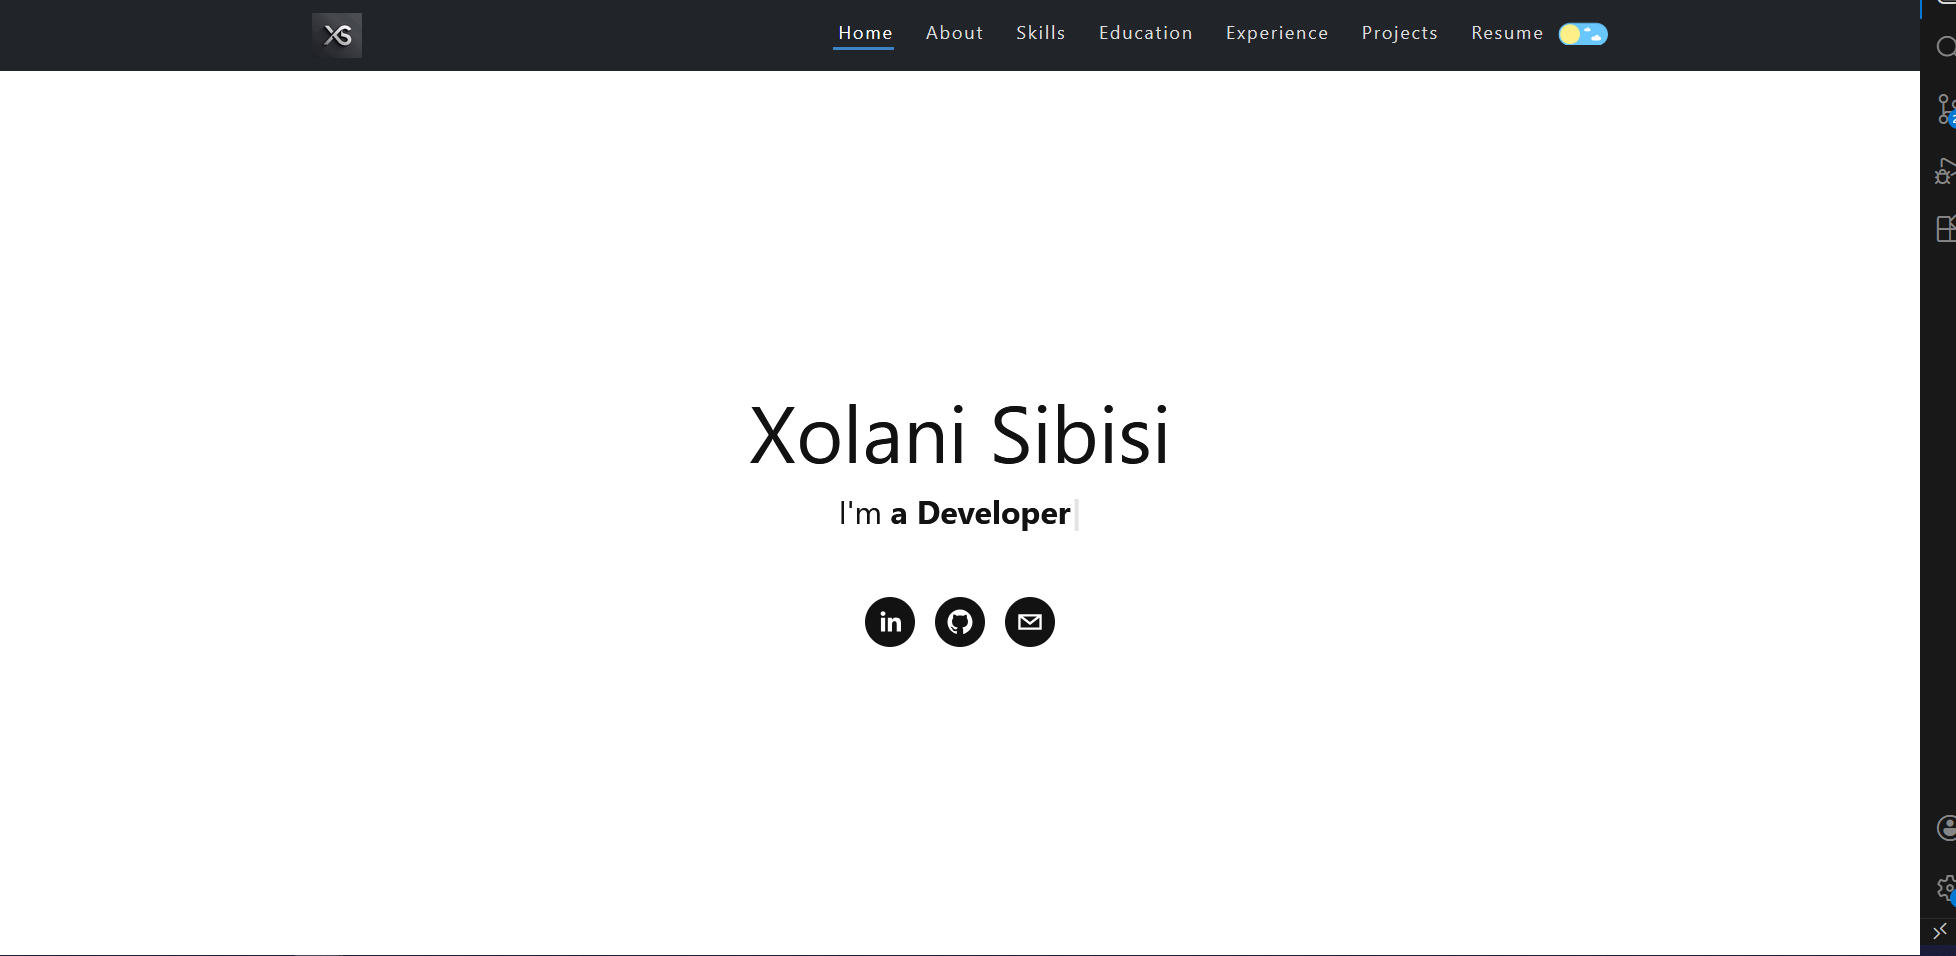
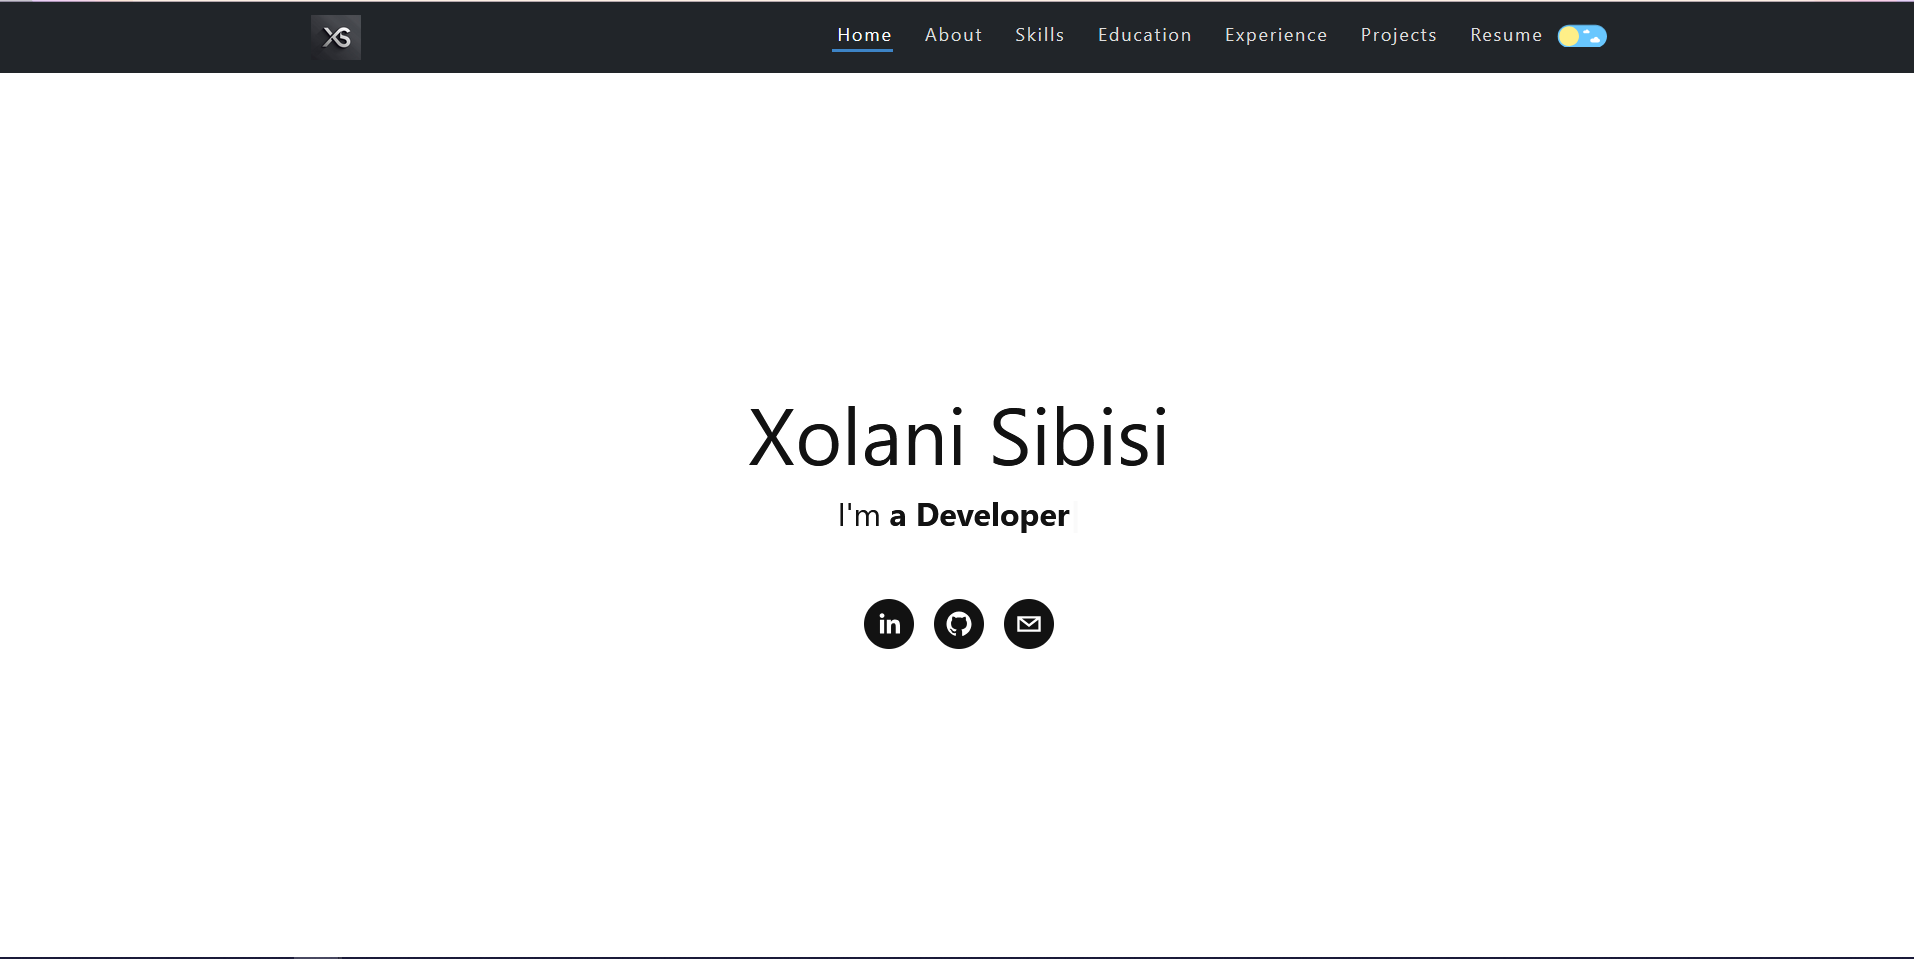
Last push

diff --git a/src/components/Experience.jsx b/src/components/Experience.jsx
@@ -56,7 +56,7 @@ function Experience(props) {
       .then((res) => res.json())
       .then((res) => setData(res.experiences))
       .catch((err) => {
-        console.error('Failed to fetch experiences:', err);
+        console.error('Error fetching experience data:', err);
         setData([]); // fail-safe to avoid spinner loop
       });
   }, []);
@@ -78,19 +78,24 @@ function Experience(props) {
                       date={item.dateText}
                       style={{ margin: '28px 0' }}
                       contentStyle={{
-                        background: '#ffffff',
-                        color: theme?.color || '#111827',
-                        boxShadow: '0 4px 16px rgba(0,0,0,0.08)',
-                        borderRadius: 8,
+                        background: theme?.cardBackground || '#fff',
+                        color: theme?.color || '#121212',
+                        boxShadow: theme?.cardBackground
+                          ? '0 6px 18px rgba(0,0,0,0.45)'
+                          : '0 6px 18px rgba(0,0,0,0.08)',
+                        border: `1px solid ${theme?.cardBorderColor || '#00000020'}`,
+                        borderRadius: 10,
                         paddingBottom: '18px 20px',
                       }}
-                      contentArrowStyle={{ borderRight: '7px solid #ffffff' }}
+                      contentArrowStyle={{ borderRight: `7px solid ${theme?.cardBackground || '#fff'}` }}
                       iconStyle={{
-                        background: theme?.accentColor || '#1e40af',
+                        background: theme?.accentColor || '#3D84C6',
                         color: '#fff',
-                        boxShadow: '0 0 0 4px rgba(30,64,175,0.15)',
-                        width: 55,
-                        height: 55,
+                        boxShadow: theme?.background === '#121212'
+                          ? '0 0 0 3px rgba(61, 132, 198, 0.22)'
+                          : '0 0 0 3px rgba(61, 132, 198, 0.15)',
+                        width: 52,
+                        height: 52,
                       }}
                     >
                       <h2 className="item-title" style={styles.itemTitle}>
@@ -113,7 +118,6 @@ function Experience(props) {
                         {item.workDescription?.map((point) => (
                           <li key={makePointKey(elementKey, point)}>
                             <ReactMarkdown
-                              // render paragraph as inline span to avoid extra spacing
                               children={point}
                               components={{ p: 'span' }}
                             />

diff --git a/src/App.jsx b/src/App.jsx
@@ -10,12 +10,25 @@ import GlobalStyles from './theme/GlobalStyles';
 import { lightTheme, darkTheme } from './theme/themes';
 
 function App() {
-  window.matchMedia = null;
-  const darkMode = useDarkMode(true);
+  // Destructure across multiple lines to satisfy object-curly-newline
+  const {
+    isDark,
+    toggle,
+    setDark,
+    setLight,
+  } = useDarkMode();
+
+  // Use object shorthand + multiline to satisfy both rules
+  const darkMode = {
+    value: isDark,
+    toggle,
+    setDark,
+    setLight,
+  };
 
   return (
     <AppContext.Provider value={{ darkMode }}>
-      <ThemeProvider theme={darkMode.value ? darkTheme : lightTheme}>
+      <ThemeProvider theme={isDark ? darkTheme : lightTheme}>
         <GlobalStyles />
         <div className="App">
           <BrowserRouter>

diff --git a/public/index.html b/public/index.html
@@ -24,7 +24,7 @@
       work correctly both with client-side routing and a non-root public URL.
       Learn how to configure a non-root public URL by running `npm run build`.
     -->
-    <title>Portfolio Website</title>
+    <title>XS</title>
   </head>
   <body>
     <noscript>You need to enable JavaScript to run this app.</noscript>

diff --git a/src/css/experience.css b/src/css/experience.css
@@ -10,6 +10,10 @@
   padding-bottom: 2.5px;
 }
 
+.vertical-timeline-element-content,
+.vertical-timeline-element-content * {
+  color: inherit;
+}
 
 .vertical-timeline-element-content ul {
   margin-top: 8px;
